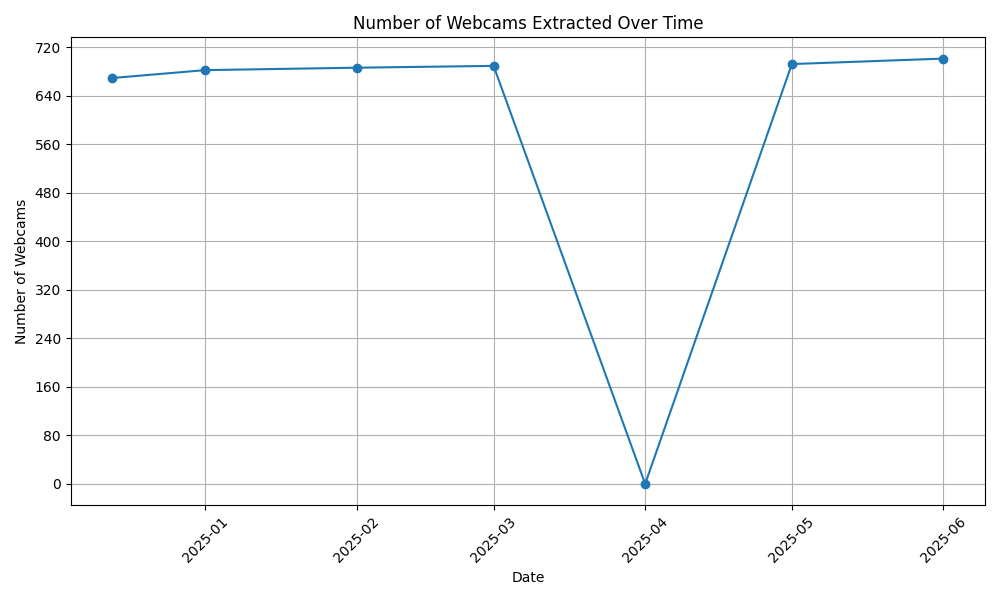
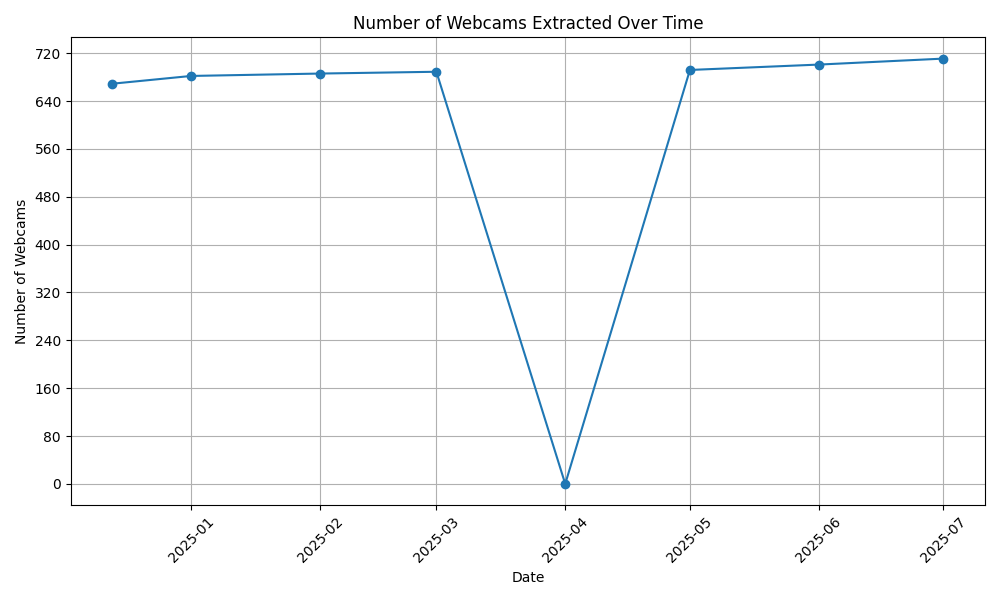
Skaping 2025-07-01

diff --git a/Skaping/README.md b/Skaping/README.md
@@ -1,10 +1,10 @@
 # Skaping 🎥
 
-**Data last updated on: '2025-06-01'**
+**Data last updated on: '2025-07-01''2025-06-01'**
 
 Data extracted from: [Skaping](https://www.skaping.com)
 
-![History Diagram](webcam_count_history.png?img_date='2025-06-01')
+![History Diagram](webcam_count_history.png?img_date='2025-07-01''2025-06-01')
 
 ## 📅 Use the Latest Data Scraped Each Month
 
